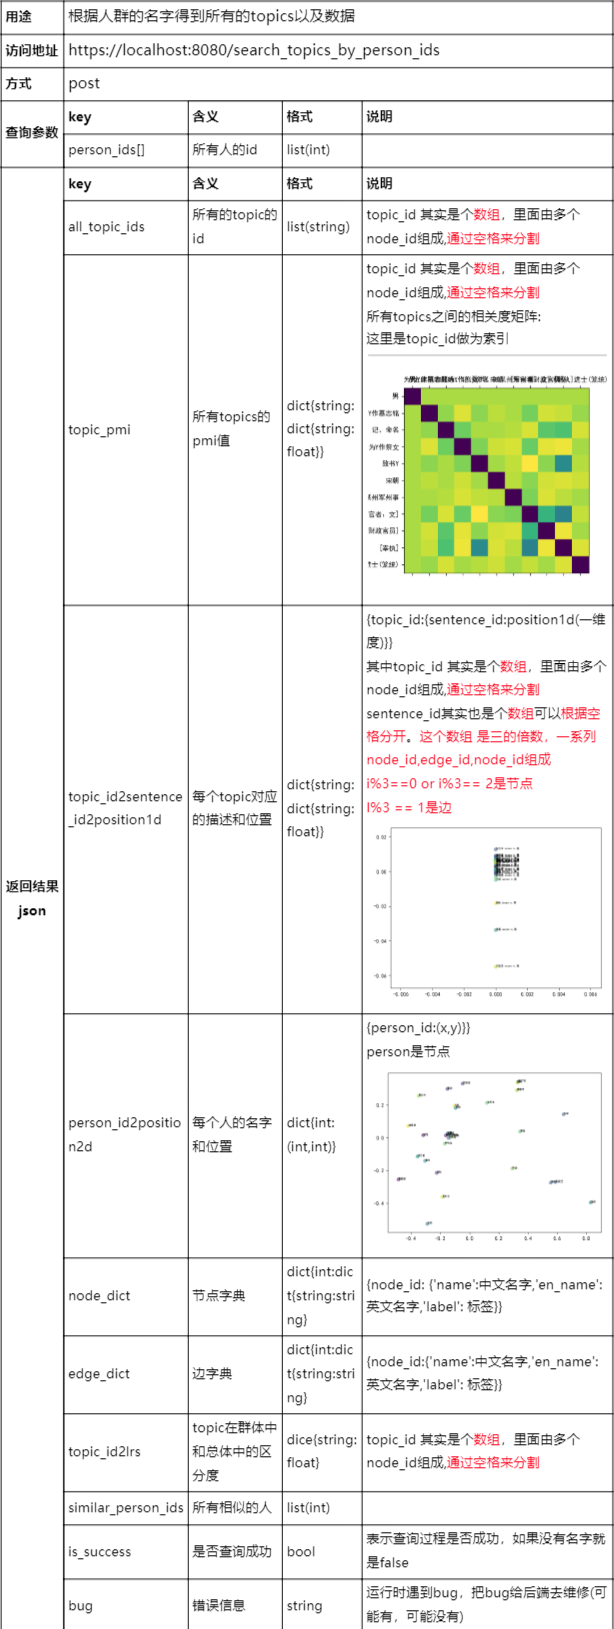
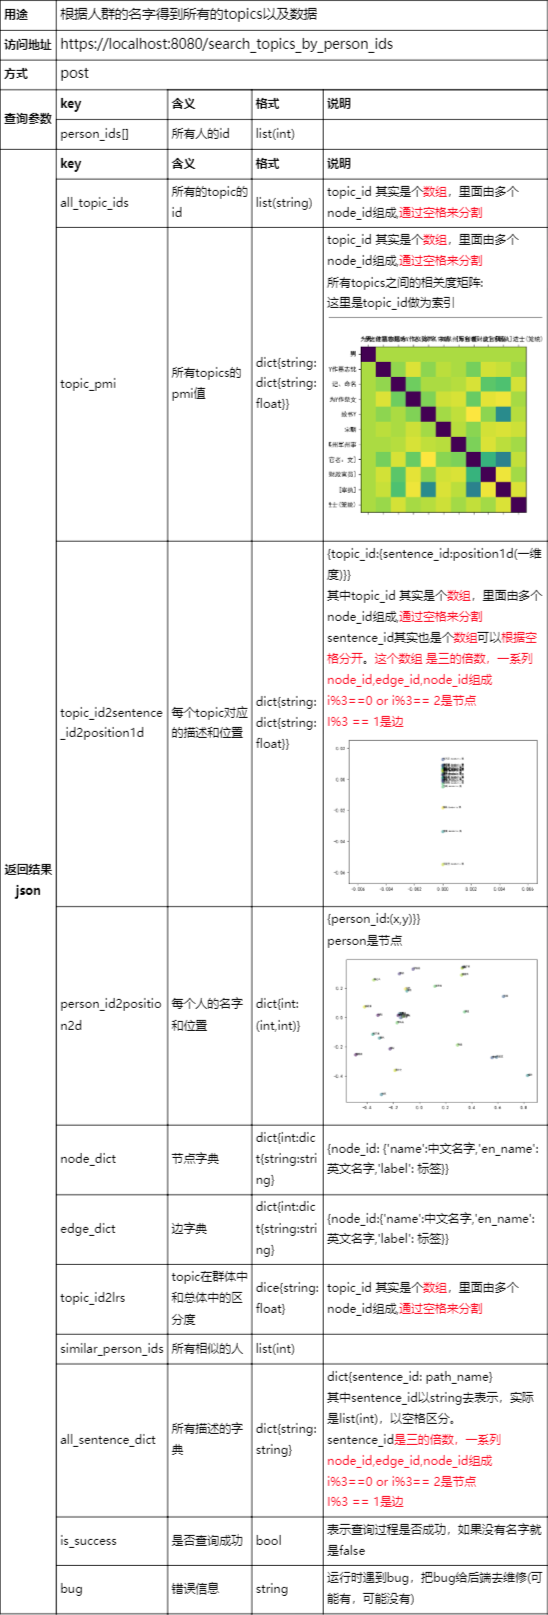
随机游走改成全部遍历，以及将描述的名称传递出来了

diff --git a/services/tools/sentence_topic_tool.py b/services/tools/sentence_topic_tool.py
@@ -20,6 +20,46 @@ Sentence 部分
 
 
 def get_sentence_dict(person_ids, random_epoch=100):
+    """根据人的id 遍历全部描述
+
+    Parameters
+    ----------
+    person_ids: list(int)
+        所有相关人的id
+    random_epoch: int
+        随机游走的迭代步数
+
+    Returns
+    -------
+    person_id2sentence_ids: dict{int: list(int)}
+        人的id对应到描述的id
+    sentence_id2person_id: dict{list(int): int}
+        描述的id（node_id,edge_id,node_id。。。）作为key,每个描述对应着每个人的id
+    all_sentence_ids: list(list(int))
+        所有的描述，以及描述里所有的id（node_id,edge_id,node_id。。。）
+    """
+    MetaPaths = common.MetaPaths
+
+    person_id2sentence_ids = {}  # 描述
+    sentence_id2person_id = {}
+    all_sentence_dict = {}
+    for person_id in person_ids:
+        sentence_ids = set()
+        for meta_path in MetaPaths:
+            _ids = meta_path.match(person_id)
+            if len(_ids) > 0:
+                sentence_id = []
+                for _source_id, _edge_id, _target_id in _ids:
+                    sentence_id += [_source_id, _edge_id, _target_id]
+                sentence_id = tuple(sentence_id)  # list没法hash，所以要转化成元组
+                sentence_ids.add(sentence_id)
+                sentence_id2person_id[sentence_id] = person_id
+                all_sentence_dict[sentence_id] = meta_path.name
+        person_id2sentence_ids[person_id] = sentence_ids
+    return person_id2sentence_ids, sentence_id2person_id, all_sentence_dict
+
+
+def get_sentence_dict2(person_ids, random_epoch=100):
     """根据人的id 随机游走找到响应的描述
 
     Parameters
@@ -42,7 +82,7 @@ def get_sentence_dict(person_ids, random_epoch=100):
 
     person_id2sentence_ids = {}  # 描述
     sentence_id2person_id = {}
-    all_sentence_ids = set()
+    all_sentence_dict = {}
     for person_id in person_ids:
         sentence_ids = set()
         for i in range(random_epoch):
@@ -55,9 +95,9 @@ def get_sentence_dict(person_ids, random_epoch=100):
                 sentence_id = tuple(sentence_id)  # list没法hash，所以要转化成元组
                 sentence_ids.add(sentence_id)
                 sentence_id2person_id[sentence_id] = person_id
-                all_sentence_ids.add(sentence_id)
+                all_sentence_dict[sentence_id] = meta_path.name
         person_id2sentence_ids[person_id] = sentence_ids
-    return person_id2sentence_ids, sentence_id2person_id, all_sentence_ids
+    return person_id2sentence_ids, sentence_id2person_id, all_sentence_dict
 
 
 def get_sentence_ids_by_topic_ids(topic_id1, topic_id2, _topic_id2sentence_ids):
@@ -245,7 +285,7 @@ def _topic_id2topic_ids(all_topic_ids, topic_id2sentence_ids, topic_id2person_id
     while True:
         no_used_topic = set()
         new_topic_ids = set()
-        remove_topic_ids = set()
+        # remove_topic_ids = set()
         for topic_id1 in all_topic_ids:
             for topic_id2 in all_topic_ids:
                 if topic_id1 == topic_id2:
@@ -271,25 +311,25 @@ def _topic_id2topic_ids(all_topic_ids, topic_id2sentence_ids, topic_id2person_id
                     new_topic_ids.add(new_topic_id)
                     topic_id2person_ids[new_topic_id] = person_ids
                     topic_id2sentence_ids[new_topic_id] = sentence_ids
-                    if support_persons > 0.9 * support_topic1:
-                        remove_topic_ids.add(topic_id1)
-                    if support_persons > 0.9 * support_topic2:
-                        remove_topic_ids.add(topic_id2)
+                    # if support_persons > 0.9 * support_topic1:
+                    #     remove_topic_ids.add(topic_id1)
+                    # if support_persons > 0.9 * support_topic2:
+                    #     remove_topic_ids.add(topic_id2)
                 else:
                     no_used_topic.add(new_topic_id)
 
         i += 1
-        print('循环次数:{}, 新增topic数量:{}, 删除topic数量:{}'.format(i, len(new_topic_ids), len(remove_topic_ids)))
+        print('循环次数:{}, 新增topic数量:{}, 删除topic数量:{}'.format(i, len(new_topic_ids), 0))  # len(remove_topic_ids)
         all_topic_ids.update(new_topic_ids)
-        for topic_id in remove_topic_ids:
-            all_topic_ids.remove(topic_id)
+        # for topic_id in remove_topic_ids:
+        #     all_topic_ids.remove(topic_id)
         if len(new_topic_ids) == 0:
             break
-    removed_topic_ids = set(topic_id2sentence_ids.keys())
-    removed_topic_ids.difference_update(all_topic_ids)
-    for _id in remove_topic_ids:
-        topic_id2sentence_ids.pop(_id)
-        topic_id2person_ids.pop(_id)
+    # removed_topic_ids = set(topic_id2sentence_ids.keys())
+    # removed_topic_ids.difference_update(all_topic_ids)
+    # for _id in remove_topic_ids:
+    #     topic_id2sentence_ids.pop(_id)
+    #     topic_id2person_ids.pop(_id)
     return topic_id2sentence_ids, topic_id2person_ids, all_topic_ids
 
 

diff --git a/services/service.py b/services/service.py
@@ -203,15 +203,15 @@ def get_topics_by_person_ids(person_ids, random_epoch=1000, max_topic=15, popula
     GRAPH_DAO = common.GRAPH_DAO
     GRAPH_DAO.start_connect()
 
-    person_id2sentence_ids, sentence_id2person_id, all_sentence_ids = get_sentence_dict(person_ids,
-                                                                                        random_epoch=random_epoch)
+    person_id2sentence_ids, sentence_id2person_id, all_sentence_dict = get_sentence_dict(person_ids,
+                                                                                         random_epoch=random_epoch)
 
     node_label2ids, node_id2relevancy, node_id2sentence_ids = get_node_relevancy(person_id2sentence_ids)
 
     topic_ids2person_ids, topic_ids2sentence_ids, all_topic_ids = get_topic_dict(node_label2ids, node_id2relevancy,
                                                                                  sentence_id2person_id,
                                                                                  node_id2sentence_ids, len(person_ids),
-                                                                                 len(all_sentence_ids),
+                                                                                 len(all_sentence_dict),
                                                                                  min_sentences=10,
                                                                                  max_topic=max_topic,
                                                                                  populate_ratio=populate_ratio)
@@ -222,16 +222,16 @@ def get_topics_by_person_ids(person_ids, random_epoch=1000, max_topic=15, popula
     person_id2position2d = person_tool.get_person_id2vector2d(dim2topic_id2sentence_ids2vector[5],
                                                               person_id2sentence_ids, num_dim=5)
 
-    topic_pmi = get_topic_pmi(all_topic_ids, person_id2sentence_ids, topic_ids2sentence_ids, len(all_sentence_ids))
+    topic_pmi = get_topic_pmi(all_topic_ids, person_id2sentence_ids, topic_ids2sentence_ids, len(all_sentence_dict))
 
-    node_dict, edge_dict = get_graph_dict(all_sentence_ids)
+    node_dict, edge_dict = get_graph_dict(all_sentence_dict)
 
     topic_id2lrs = {_id: lrs(_id, person_ids) for _id in all_topic_ids}  # siwei: 这个以后也要发给前端
     similar_person_ids = get_all_similar_person(person_ids, topic_id2lrs)
     GRAPH_DAO.close_connect()
 
     return all_topic_ids, dim2topic_id2sentence_ids2vector[
-        1], topic_pmi, person_id2position2d, node_dict, edge_dict, topic_id2lrs, similar_person_ids
+        1], topic_pmi, person_id2position2d, node_dict, edge_dict, topic_id2lrs, similar_person_ids, all_sentence_dict
 
 
 def get_community_by_num_node_links(num_node, links):

diff --git a/group_anaysis/view.py b/group_anaysis/view.py
@@ -88,7 +88,7 @@ def search_topics_by_person_ids(request):
         person_ids = request.POST.getlist('person_ids[]')
         try:
             person_ids = [int(_id) for _id in person_ids]
-            all_topic_ids, topic_id2sentence_id2position1d, topic_pmi, person_id2position2d, node_dict, edge_dict, topic_id2lrs, similar_person_ids = get_topics_by_person_ids(
+            all_topic_ids, topic_id2sentence_id2position1d, topic_pmi, person_id2position2d, node_dict, edge_dict, topic_id2lrs, similar_person_ids, all_sentence_dict = get_topics_by_person_ids(
                 person_ids, max_topic=15)
             result['all_topic_ids'] = [[int(_id) for _id in _ids] for _ids in all_topic_ids]
             topic_id2sentence_id2position1d_json = {}
@@ -121,6 +121,12 @@ def search_topics_by_person_ids(request):
                 topic_id2lrs_json[_topic_id] = _lrs
             result['topic_id2lrs'] = topic_id2lrs_json
             result['similar_person_ids'] = similar_person_ids
+            all_sentence_dict_json = {}
+            for _sentence_id, _name in all_sentence_dict.items():
+                _sentence_id = [str(_id) for _id in _sentence_id]
+                _sentence_id = ' '.join(_sentence_id)
+                all_sentence_dict_json[_sentence_id] = _name
+            result['all_sentence_dict'] = all_sentence_dict_json
             result['is_success'] = True
         except Exception as e:
             result['bug'] = '发给后端调试问题。输入为 person_ids:{}'.format(person_ids)

diff --git a/services/tools/graph_tool.py b/services/tools/graph_tool.py
@@ -160,7 +160,7 @@ def get_filtered_node(id_=None, name_=None, label_=None):
     return True, id_
 
 
-def get_graph_dict(all_graph_ids):
+def get_graph_dict(all_sentence_dict):
     """根据图id来得到图的字典，包括节点字典和边字典，为前端这里可以实现多语言化
     Notes
     ----------
@@ -168,7 +168,7 @@ def get_graph_dict(all_graph_ids):
 
     Parameters
     ----------
-    all_graph_ids: list(list())
+    all_sentence_dict: dict{list(int):string}
         all_graph_ids代表着所有的描述的id, 然后里面的每个item代表一句描述，描述是由三元数组组成的。
         node_id, edge_id, node_id 将这些所有的三元数组组合成列表。
 
@@ -184,7 +184,7 @@ def get_graph_dict(all_graph_ids):
 
     node_dict = {}
     edge_dict = {}
-    for graph_id in all_graph_ids:
+    for graph_id, _ in all_sentence_dict.items():
         for i, _id in enumerate(graph_id):
             if i % 3 == 0 or i % 3 == 2:
                 node_dict[_id] = {'name': GRAPH_DAO.get_node_name_by_id(_id),

diff --git a/_test_service.py b/_test_service.py
@@ -43,7 +43,7 @@ if __name__ == '__main__':
     person_ids = [_id[0] for _id in person_id2relation]
 
     start = timeit.default_timer()
-    all_topic_ids, topic_id2sentence_id2position1d, topic_pmi, person_id2position2d, node_dict, edge_dict, topic_id2lrs, similar_person_ids = get_topics_by_person_ids(
+    all_topic_ids, topic_id2sentence_id2position1d, topic_pmi, person_id2position2d, node_dict, edge_dict, topic_id2lrs, similar_person_ids, all_sentence_dict = get_topics_by_person_ids(
         person_ids, 100)
     print('查询所有topic的相关性:{}'.format(timeit.default_timer() - start))
     # topic 相似矩阵
